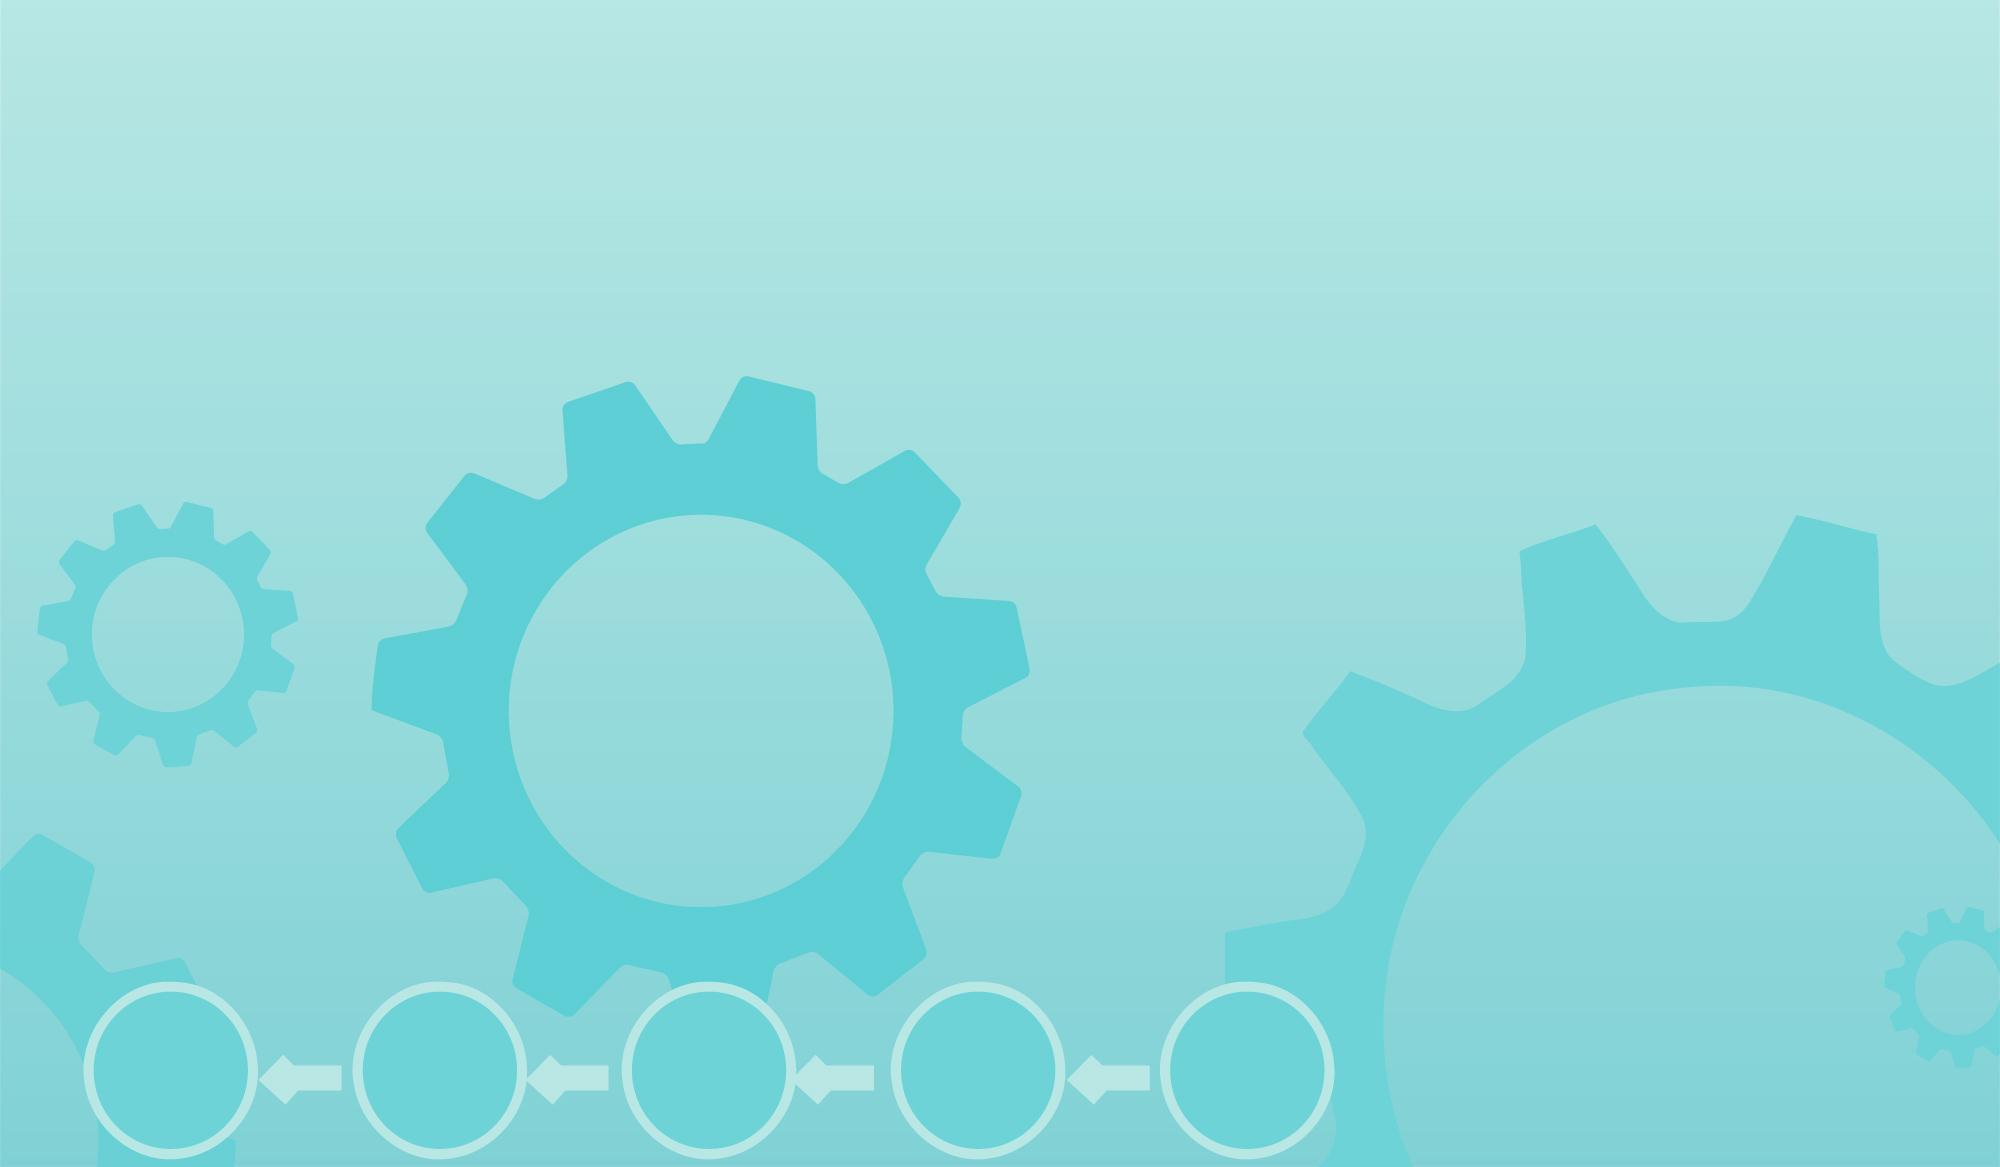
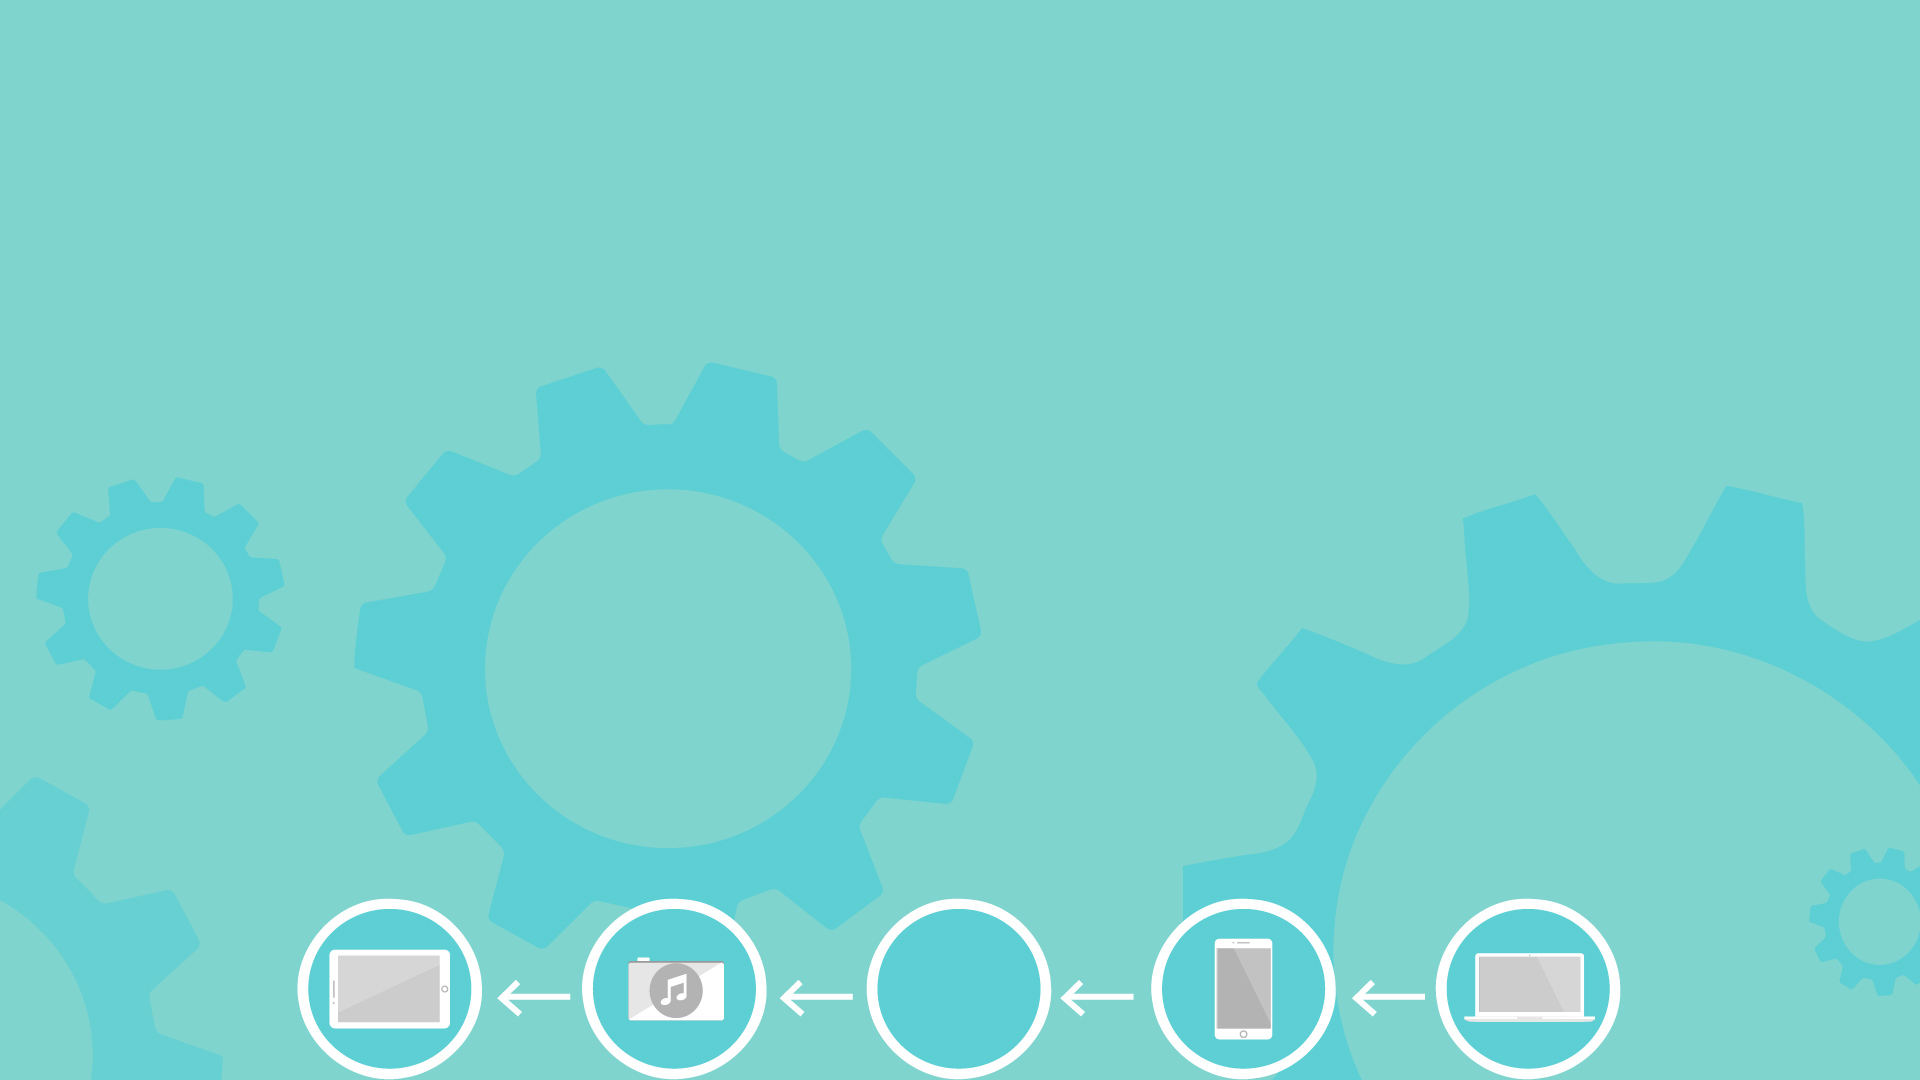
zmiany w style.css, zmiany w bootstrap.css,zmiana tła, nowe ikony-rejestracja, zalogu,pomoc

diff --git a/Webinarek/Webinarek.WebUI/Content/bootstrap.css b/Webinarek/Webinarek.WebUI/Content/bootstrap.css
@@ -401,7 +401,8 @@ hr {
 }
 
 p {
-  margin: 0 0 10px;
+    margin: 0 0 10px;
+    text-align: center;
 }
 
 .lead {
@@ -409,6 +410,8 @@ p {
   font-size: 16.099999999999998px;
   font-weight: 200;
   line-height: 1.4;
+  color:azure;
+  
 }
 
 @media (min-width: 768px) {
@@ -1999,7 +2002,7 @@ textarea.input-lg {
 
 .btn {
   display: inline-block;
-  padding: 6px 12px;
+  padding: 30px 12px;
   margin-bottom: 0;
   font-size: 14px;
   font-weight: normal;
@@ -2015,6 +2018,7 @@ textarea.input-lg {
       -ms-user-select: none;
        -o-user-select: none;
           user-select: none;
+          background-color:bisque;
 }
 
 .btn:focus {
@@ -2049,9 +2053,9 @@ fieldset[disabled] .btn {
 }
 
 .btn-default {
-  color: #333333;
-  background-color: #ffffff;
-  border-color: #cccccc;
+    color: #333333;
+    background-color: bisque;
+    border-color: #cccccc;
 }
 
 .btn-default:hover,
@@ -2090,9 +2094,11 @@ fieldset[disabled] .btn-default.active {
 }
 
 .btn-primary {
-  color: #ffffff;
-  background-color: #428bca;
-  border-color: #357ebd;
+    color: #ffffff;
+    background: url('button-rejestracja.png') center;
+    width 100%;
+    height 100%;
+    border-color: #357ebd;
 }
 
 .btn-primary:hover,
@@ -2105,11 +2111,11 @@ fieldset[disabled] .btn-default.active {
   border-color: #285e8e;
 }
 
-.btn-primary:active,
-.btn-primary.active,
-.open .dropdown-toggle.btn-primary {
-  background-image: none;
-}
+    .btn-primary:active,
+    .btn-primary.active,
+    .open .dropdown-toggle.btn-primary {
+        background-image: button-rejestracja.png;
+    }
 
 .btn-primary.disabled,
 .btn-primary[disabled],
@@ -4934,7 +4940,7 @@ a.list-group-item.active > .badge,
   font-weight: 200;
   line-height: 2.1428571435;
   color: inherit;
-  background-color: #eeeeee;
+ 
 }
 
 .jumbotron h1 {

diff --git a/Webinarek/Webinarek.WebUI/Content/style.css b/Webinarek/Webinarek.WebUI/Content/style.css
@@ -9,14 +9,15 @@ body {
     width: 100 vw;
     height: 100 vh;
     font-family: sans-serif;
-    color: #2E3192;
+    color: #ffffff;
+    
 }
 
 span {
     background-size: cover;
     background: #4ECDC4;
     font-weight: bold;
-    color: #fff;
+    color:#ffffff;
     border-width: thick;
     border-radius: 5px 5px 5px 5px;
 }
@@ -161,4 +162,9 @@ list-style-type: none;
     width: 100%;
     /*background-color: #ccc;*/
     padding: 10px;
+}
+.register {
+    background-image: button-rejestracja.png;
+    width 100%;
+    height 100%;
 }
